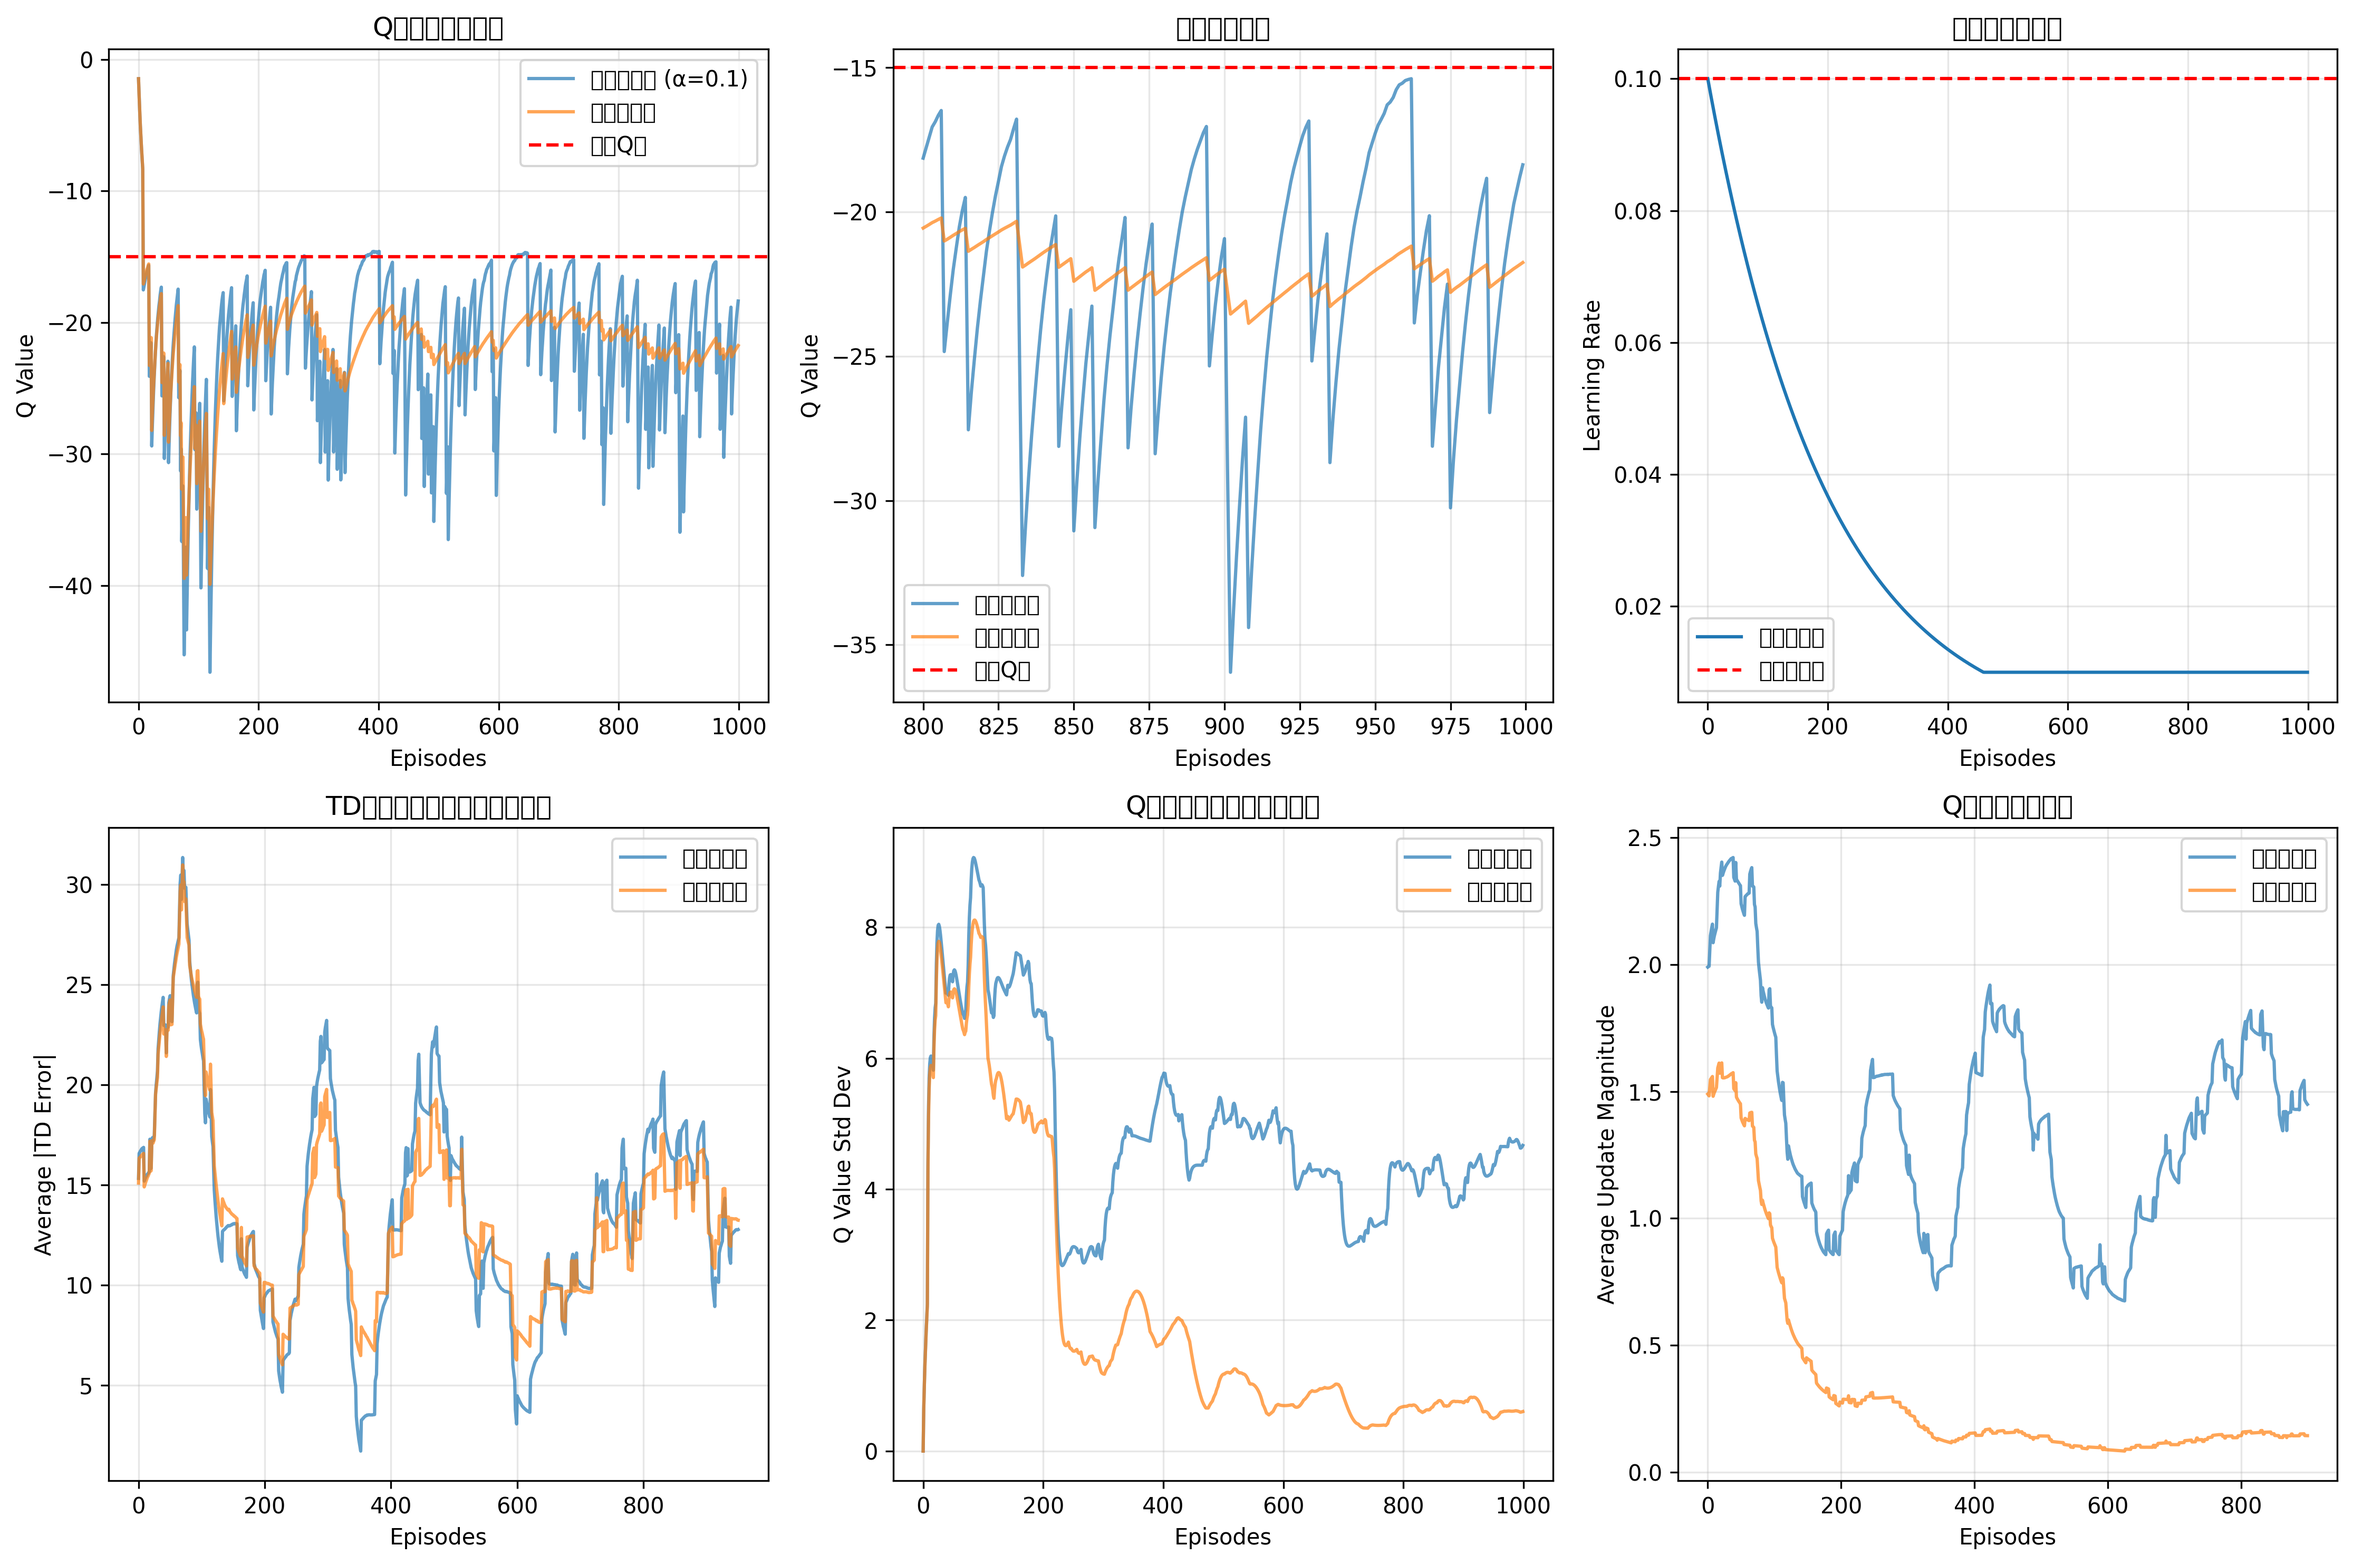
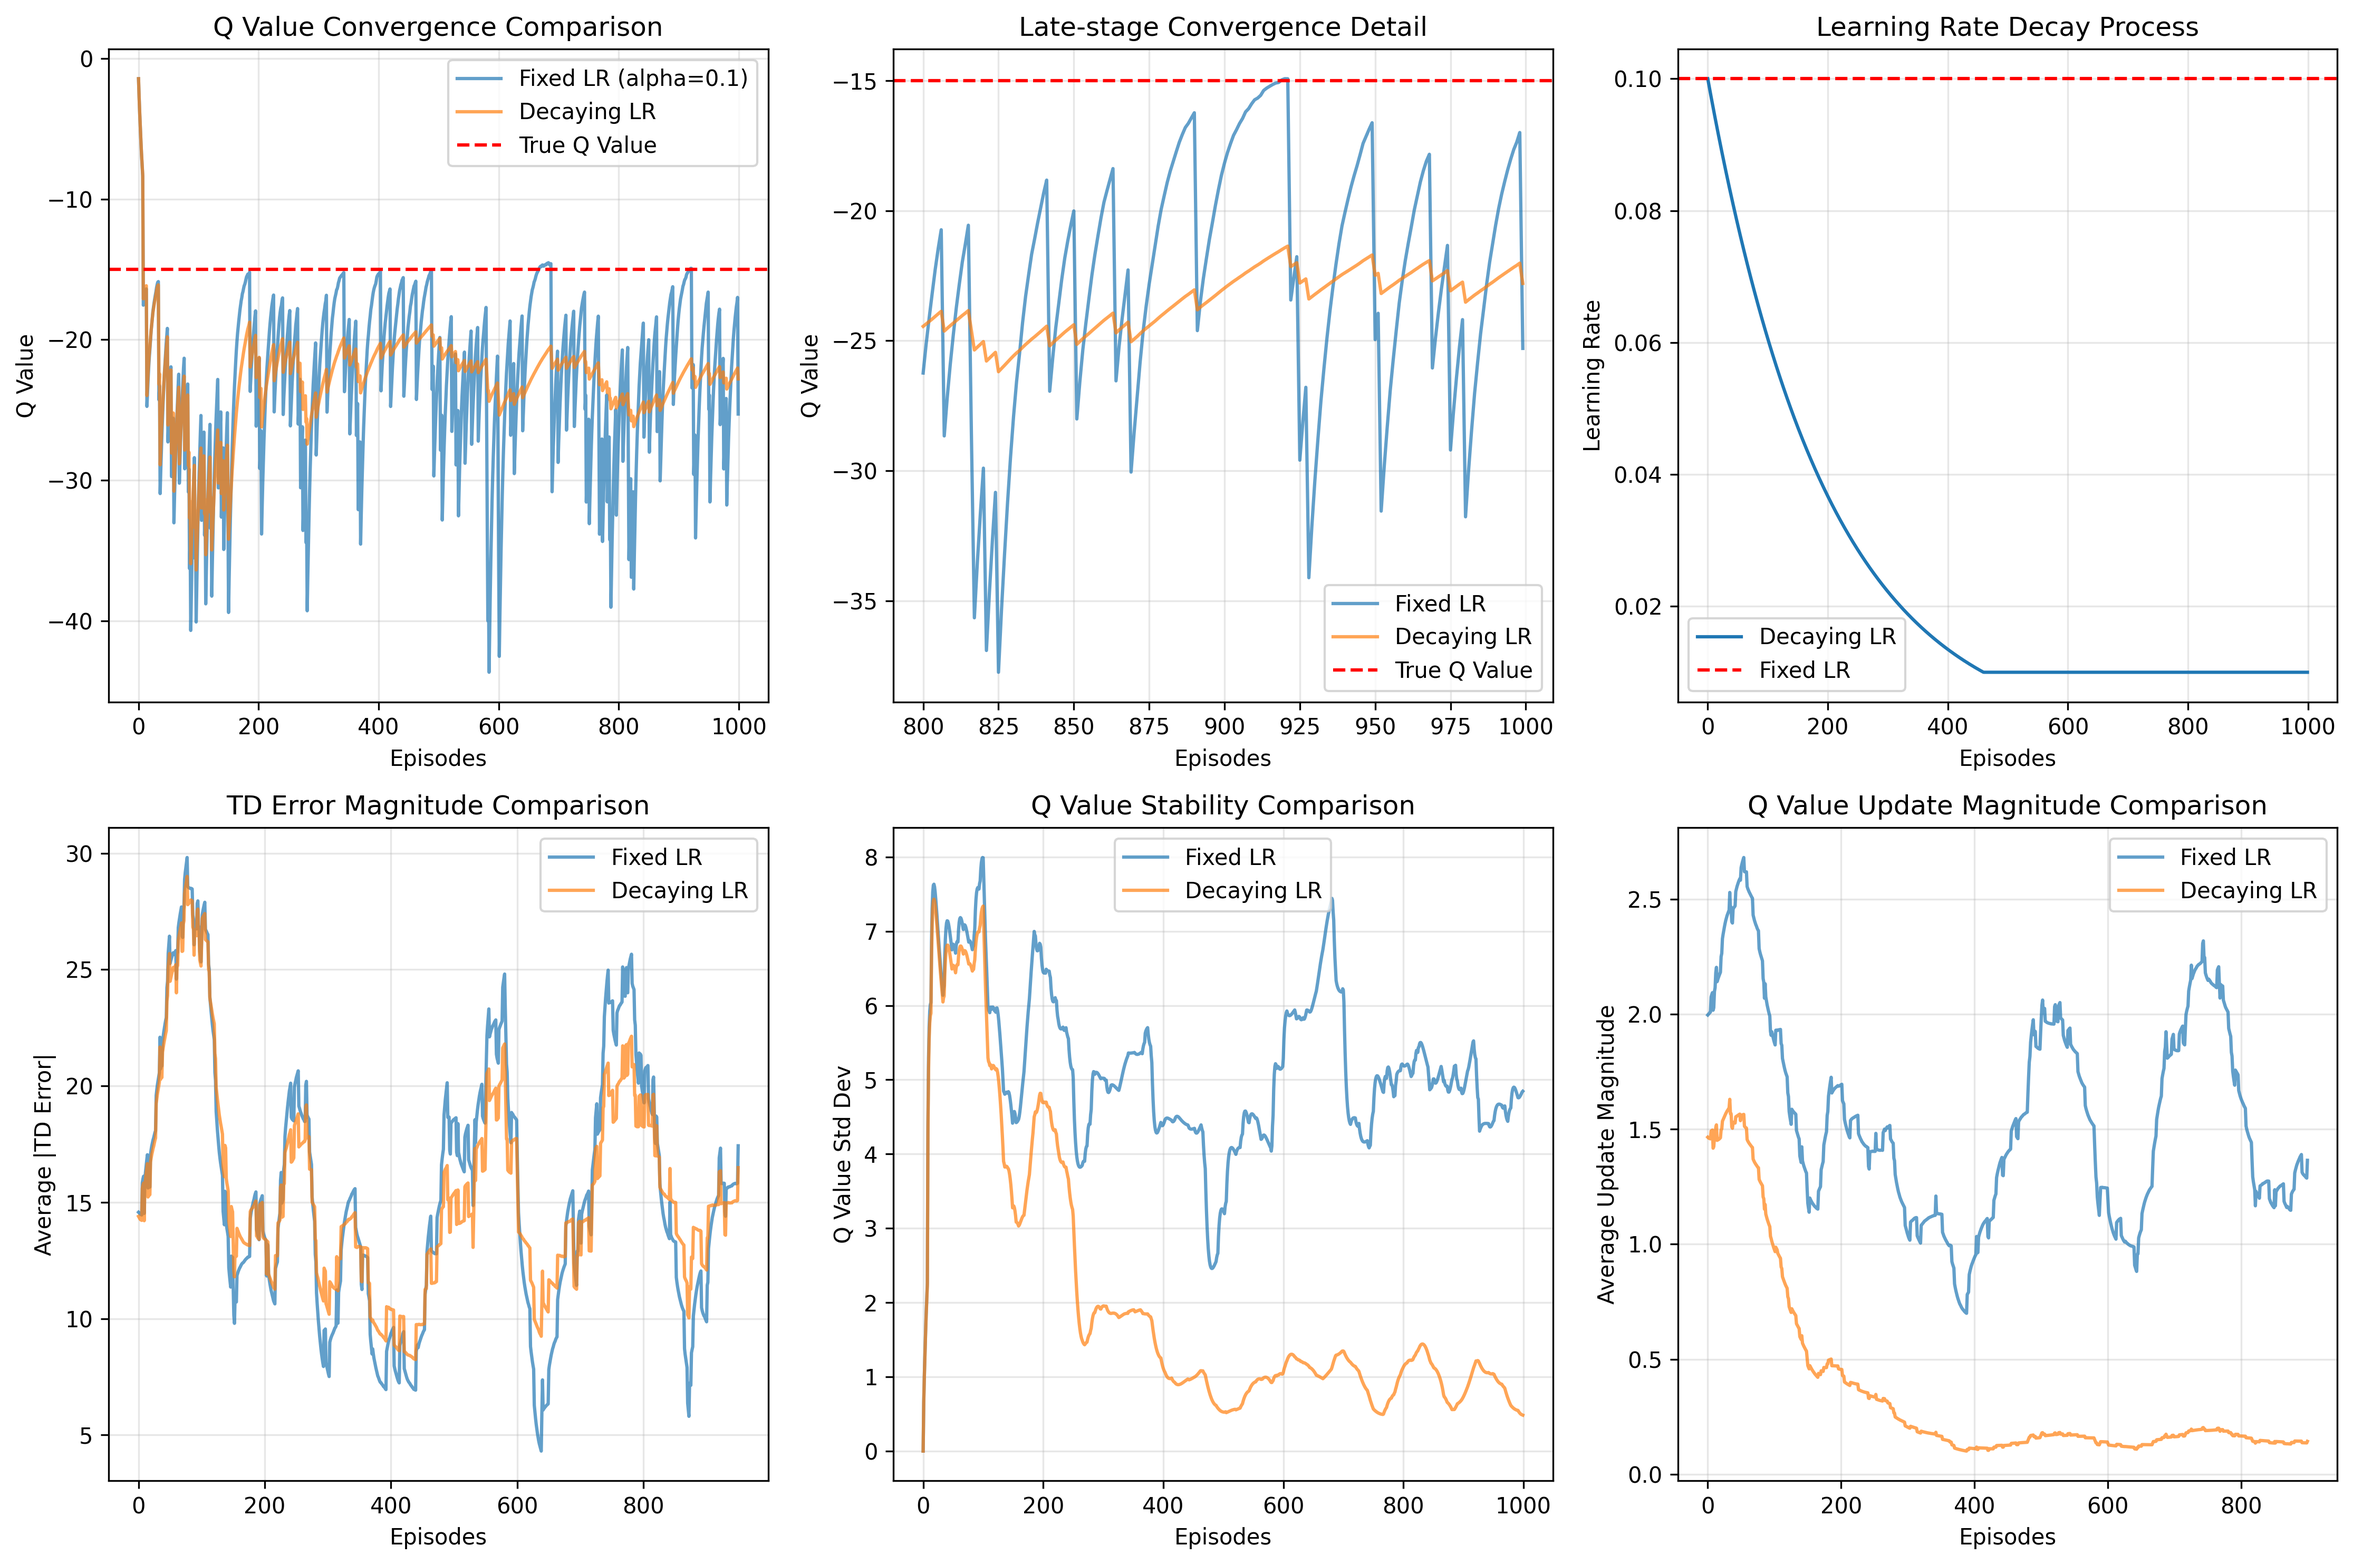
修复学习率分析图表中文乱码问题：将所有matplotlib标签改为英文

diff --git a/Cliff_Walking/learning_rate_analysis.py b/Cliff_Walking/learning_rate_analysis.py
@@ -104,12 +104,12 @@ def plot_convergence_comparison():
     
     # 子图1：Q值收敛过程
     plt.subplot(2, 3, 1)
-    plt.plot(data['q_fixed'], label='固定学习率 (α=0.1)', alpha=0.7)
-    plt.plot(data['q_decay'], label='衰减学习率', alpha=0.7)
-    plt.axhline(y=data['true_value'], color='red', linestyle='--', label='真实Q值')
+    plt.plot(data['q_fixed'], label='Fixed LR (alpha=0.1)', alpha=0.7)
+    plt.plot(data['q_decay'], label='Decaying LR', alpha=0.7)
+    plt.axhline(y=data['true_value'], color='red', linestyle='--', label='True Q Value')
     plt.xlabel('Episodes')
     plt.ylabel('Q Value')
-    plt.title('Q值收敛过程对比')
+    plt.title('Q Value Convergence Comparison')
     plt.legend()
     plt.grid(True, alpha=0.3)
     
@@ -117,23 +117,23 @@ def plot_convergence_comparison():
     plt.subplot(2, 3, 2)
     start_idx = len(data['q_fixed']) - 200
     plt.plot(range(start_idx, len(data['q_fixed'])), 
-             data['q_fixed'][start_idx:], label='固定学习率', alpha=0.7)
+             data['q_fixed'][start_idx:], label='Fixed LR', alpha=0.7)
     plt.plot(range(start_idx, len(data['q_decay'])), 
-             data['q_decay'][start_idx:], label='衰减学习率', alpha=0.7)
-    plt.axhline(y=data['true_value'], color='red', linestyle='--', label='真实Q值')
+             data['q_decay'][start_idx:], label='Decaying LR', alpha=0.7)
+    plt.axhline(y=data['true_value'], color='red', linestyle='--', label='True Q Value')
     plt.xlabel('Episodes')
     plt.ylabel('Q Value')
-    plt.title('后期收敛细节')
+    plt.title('Late-stage Convergence Detail')
     plt.legend()
     plt.grid(True, alpha=0.3)
     
     # 子图3：学习率衰减过程
     plt.subplot(2, 3, 3)
-    plt.plot(data['alpha_history'], label='衰减学习率')
-    plt.axhline(y=0.1, color='red', linestyle='--', label='固定学习率')
+    plt.plot(data['alpha_history'], label='Decaying LR')
+    plt.axhline(y=0.1, color='red', linestyle='--', label='Fixed LR')
     plt.xlabel('Episodes')
     plt.ylabel('Learning Rate')
-    plt.title('学习率变化过程')
+    plt.title('Learning Rate Decay Process')
     plt.legend()
     plt.grid(True, alpha=0.3)
     
@@ -143,11 +143,11 @@ def plot_convergence_comparison():
     td_smooth_fixed = np.convolve(data['td_errors_fixed'], np.ones(window)/window, mode='valid')
     td_smooth_decay = np.convolve(data['td_errors_decay'], np.ones(window)/window, mode='valid')
     
-    plt.plot(td_smooth_fixed, label='固定学习率', alpha=0.7)
-    plt.plot(td_smooth_decay, label='衰减学习率', alpha=0.7)
+    plt.plot(td_smooth_fixed, label='Fixed LR', alpha=0.7)
+    plt.plot(td_smooth_decay, label='Decaying LR', alpha=0.7)
     plt.xlabel('Episodes')
     plt.ylabel('Average |TD Error|')
-    plt.title('TD误差幅度对比（移动平均）')
+    plt.title('TD Error Magnitude Comparison')
     plt.legend()
     plt.grid(True, alpha=0.3)
     
@@ -159,11 +159,11 @@ def plot_convergence_comparison():
     std_decay = [np.std(data['q_decay'][max(0, i-window):i+1]) 
                  for i in range(len(data['q_decay']))]
     
-    plt.plot(std_fixed, label='固定学习率', alpha=0.7)
-    plt.plot(std_decay, label='衰减学习率', alpha=0.7)
+    plt.plot(std_fixed, label='Fixed LR', alpha=0.7)
+    plt.plot(std_decay, label='Decaying LR', alpha=0.7)
     plt.xlabel('Episodes')
     plt.ylabel('Q Value Std Dev')
-    plt.title('Q值稳定性对比（标准差）')
+    plt.title('Q Value Stability Comparison')
     plt.legend()
     plt.grid(True, alpha=0.3)
     
@@ -178,11 +178,11 @@ def plot_convergence_comparison():
     updates_smooth_fixed = np.convolve(updates_fixed, np.ones(window)/window, mode='valid')
     updates_smooth_decay = np.convolve(updates_decay, np.ones(window)/window, mode='valid')
     
-    plt.plot(updates_smooth_fixed, label='固定学习率', alpha=0.7)
-    plt.plot(updates_smooth_decay, label='衰减学习率', alpha=0.7)
+    plt.plot(updates_smooth_fixed, label='Fixed LR', alpha=0.7)
+    plt.plot(updates_smooth_decay, label='Decaying LR', alpha=0.7)
     plt.xlabel('Episodes')
     plt.ylabel('Average Update Magnitude')
-    plt.title('Q值更新幅度对比')
+    plt.title('Q Value Update Magnitude Comparison')
     plt.legend()
     plt.grid(True, alpha=0.3)
     
